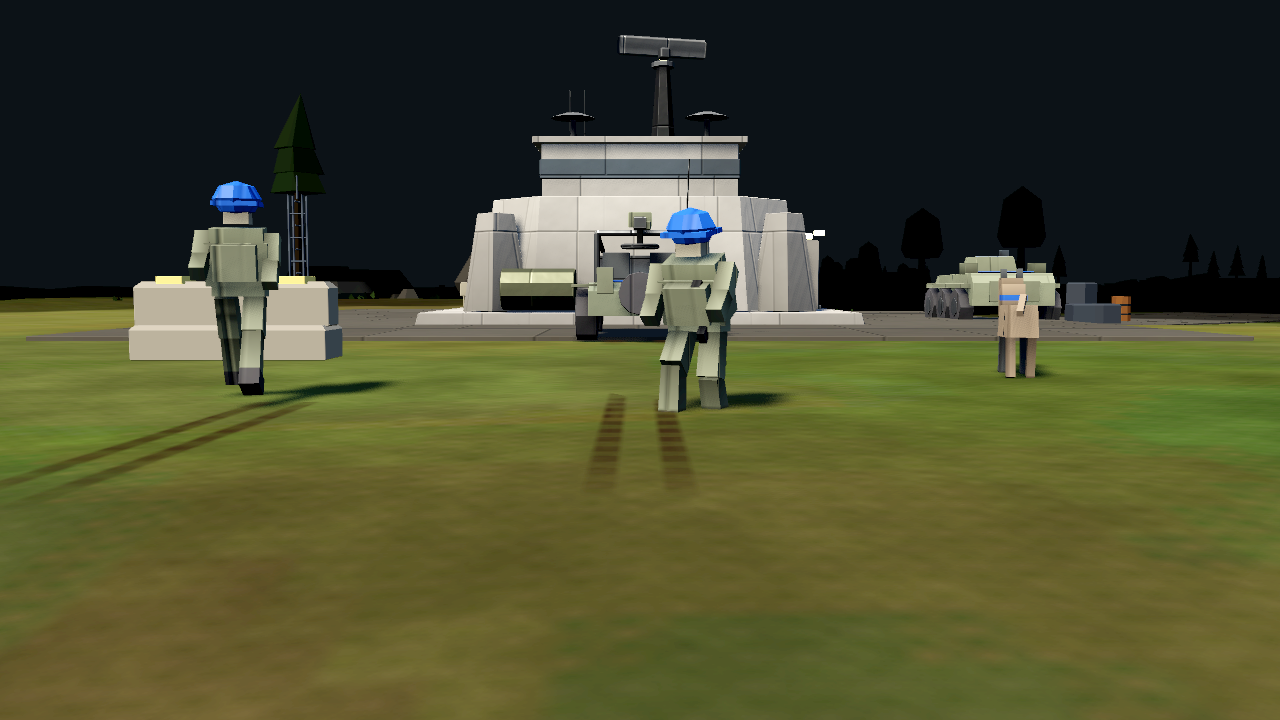
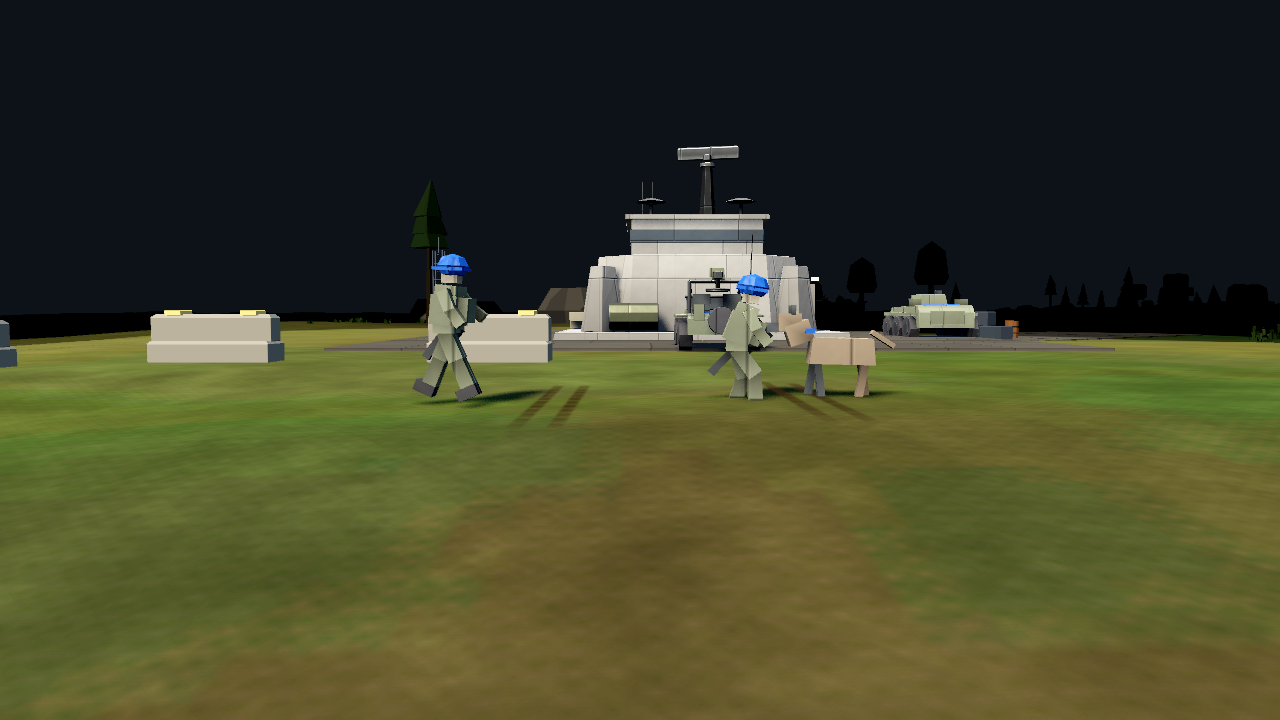
Measure triangles too, and record what else the machine was doing
Two holes in the instrumentation, both found by numbers that did not
make sense.

The audit counted draw calls only. Scenery batching had been scored a
clean win on that column alone - 781 draws down to 63 - while quietly
trading them for triangles: a MultiMesh is culled as one box, so a chunk
with a single tree on screen submits every tree it holds. Scenery still
carries 18% of the frame's geometry. The audit reports both columns now,
and unit models turn out to be 29% of draws but 55% of triangles.

And a whole run of FPS numbers was taken with a forgotten Android
emulator eating six cores. Draws, triangles and nodes are counted rather
than timed, so they stayed correct and the contamination looked like a
rendering regression - scenario B read 33 FPS where the same build on an
idle machine reads 115. The benchmark header now prints the load average
with a verdict, so a bad run says so instead of being believed.

The pose preview walked its subjects directly away from the camera,
which is the one angle that hides a stride. They walk across the view
now, and all three - running, crouching, and the dog - stay in frame.

Claude-Session: https://claude.ai/code/session_01DZuC8PnfRtC4UfouPMZvxD

diff --git a/docs/RENDER_BUDGET.md b/docs/RENDER_BUDGET.md
@@ -17,6 +17,20 @@ godot --path . res://scenes/dev/infantry_scale.tscn
 godot --path . res://scenes/dev/android_benchmark.tscn
 ```
 
+## Measure on an idle machine, and prove it was idle
+
+A whole run of FPS numbers was once taken with a forgotten Android
+emulator eating six cores. Nothing in the output said so: draw calls,
+triangles and node counts are *counted*, so they stayed correct, and
+only the FPS column was wrong — which made the contamination look like
+a rendering regression. Scenario B read 33 FPS; on an idle machine the
+same build reads 115.
+
+The benchmark now prints `load=` with a verdict in its header, and
+refuses to be quietly believed. **Check that line before comparing any
+FPS figure to any other.** Counted metrics — draws, triangles, nodes,
+VRAM — are unaffected by load and can be compared across runs freely.
+
 ## What the first audit found
 
 Desktop Vulkan, 60 units, 1,688 draw calls:
@@ -65,9 +79,85 @@ wrecks 24 (`Wreckage.MAX_WRECKS`), ground marks per layer, VFX bursts 48
 (`VFX.MAX_BURSTS`). Bursts are dropped rather than queued when full: a
 flash that arrives late is worse than one that never came.
 
+## What the second audit found
+
+After the scenery batching and the skinned infantry, same 60-unit scene,
+desktop Vulkan, **649 draws / 195,180 triangles**:
+
+| Category | Draws | Share | Triangles | Share |
+|---|---|---|---|---|
+| UI (whole HUD) | 211 | 34% | ~0 | — |
+| Shadows | 178 | 33% | 76,022 | 40% |
+| Unit models | 153 | 29% | 106,622 | 55% |
+| Scenery props | 63 | 12% | 34,172 | 18% |
+| Ground marks | 4 | 1% | 1,024 | 0% |
+| Health bars | 0 | — | 0 | — |
+| Selection rings | 0 | — | 0 | — |
+
+**Counting only draw calls hid half the frame.** Scenery batching traded
+calls for triangles — a MultiMesh is culled as one box, so a chunk with
+one tree on screen submits every tree it holds — and scenery that fell
+from 781 draws to 63 still carries 18% of the geometry. The audit
+reports both columns now for that reason.
+
+**The UI is the largest single draw category and it does not scale.**
+211 draws is a fixed floor, paid whether the battle holds six units or
+two hundred. It is the thing to fix for the *floor*, never for the
+*slope*.
+
+## Cost per unit, measured
+
+`infantry_scale.tscn`, desktop Vulkan, idle machine:
+
+| Infantry | FPS | Draws | Triangles |
+|---|---|---|---|
+| 20 | 180.7 | 218 | 67,238 |
+| 60 | 114.6 | 337 | 90,854 |
+| 120 | 75.6 | 517 | 126,376 |
+| 200 | 50.6 | 757 | 173,736 |
+
+Slope: **3 draws and ~590 triangles per infantryman** (2 draws drawn,
+1 shadow). Fixed floor 158 draws.
+
+Per model, from the GLBs themselves:
+
+| | Surfaces | Triangles | Skinned |
+|---|---|---|---|
+| main_battle_tank | 9 | 2,428 | no |
+| scout_vehicle | 6 | 2,104 | no |
+| harvester | 4 | 2,048 | no |
+| assault_vehicle | 8 | 1,564 | no |
+| artillery_vehicle | 7 | 1,492 | no |
+| at_squad | 3 | 316 | yes |
+| rifle_soldier | 3 | 264 | yes |
+| attack_dog | 2 | 144 | yes |
+
+A surface is a draw call and it is paid twice, so a main battle tank
+costs 18 draw calls against a rifleman's 3, and nine times his
+triangles. Measured in the mix: **30 vehicles cost 210 draws, 7 each.**
+
+## CPU, not just the GPU
+
+Draw calls stopped being the constraint before the frame did. Running
+`infantry_scale` with `OM_NO_POSE=1` holds every skeleton at its rest
+pose, leaving the identical scene to render, and the difference is what
+GDScript bone posing costs:
+
+| Infantry | Posed | Rest only | Posing |
+|---|---|---|---|
+| 60 | 8.73 ms | 7.63 ms | 1.10 ms |
+| 120 | 13.23 ms | 10.49 ms | 2.74 ms |
+| 200 | 19.76 ms | 14.27 ms | 5.49 ms |
+
+**~0.027 ms per soldier per frame** — at 200 infantry, 28% of the frame,
+spent in `_process` before the renderer is asked for anything. This is
+why `DETAIL_RANGE` exists and why the next infantry win is a shared
+posing pass rather than more mesh work.
+
 ## Where it ended up
 
-Desktop Vulkan, same 60-unit scene: **1,688 → 967** draw calls.
+Desktop Vulkan, same 60-unit scene: **1,688 → 967 → 649** draw calls
+across Phases 6 and 7.
 
 | Category | Before | After |
 |---|---|---|

diff --git a/docs/ANDROID_BENCHMARK.md b/docs/ANDROID_BENCHMARK.md
@@ -50,6 +50,24 @@ nothing.
 
 Intel RPL-P integrated graphics, i5-13420H, Godot 4.7.2, uncapped.
 
+**Check the `load=` line in the header before trusting any FPS here.** A
+run was once taken with a forgotten Android emulator on six cores and
+read 33 FPS where the same build reads 115; the draw and triangle
+columns were correct throughout, which is what made it hard to spot.
+
+Phase 7 (skinned infantry), idle machine:
+
+| Scenario | FPS | 1% low | Draws | Triangles | Nodes | VRAM (MB) |
+|---|---|---|---|---|---|---|
+| A idle base | 197.2 | 150.0 | 196 | 76,559 | 738 | 97.0 |
+| B land battle 60 | 114.6 | 90.0 | 519 | 217,079 | 1,657 | 101.1 |
+| C coastal fleet | 121.3 | 86.7 | 263 | 89,857 | 1,830 | 101.8 |
+| D effects storm | 95.1 | 58.3 | 553 | 358,841 | 1,847 | 101.8 |
+| E max zoom out | 96.5 | 75.2 | 619 | 376,588 | 1,832 | 101.7 |
+
+Phase 4, for comparison (also an idle machine — it predates the
+emulator):
+
 | Scenario | FPS | 1% low | Draws | Triangles | Nodes | VRAM (MB) |
 |---|---|---|---|---|---|---|
 | A idle base | 200.2 | 165.0 | 740 | 95,844 | 2,102 | 95.9 |
@@ -57,6 +75,16 @@ Intel RPL-P integrated graphics, i5-13420H, Godot 4.7.2, uncapped.
 | C coastal fleet | 162.9 | 90.0 | 770 | 143,545 | 2,991 | 99.4 |
 | D effects storm | 156.1 | 135.0 | 1,382 | 219,005 | 2,843 | 98.7 |
 | E max zoom out | 157.4 | 150.0 | 1,485 | 238,170 | 2,843 | 98.7 |
+
+Draw calls fell everywhere — B by 66%, A by 74% — and node counts with
+them. But **C, D and E give back FPS while drawing fewer calls**, and
+D and E carry 60% more triangles than they did in Phase 4. That is the
+scenery-batching trade showing its other side: a MultiMesh chunk is
+culled as a single box, so pulling the camera back (E) or filling the
+screen with effects (D) submits geometry that per-instance culling used
+to reject. Worth measuring on a real phone before deciding whether the
+trade was right — a mobile driver's per-call cost is the whole reason
+it was made.
 
 ## What to look at first on a device
 
